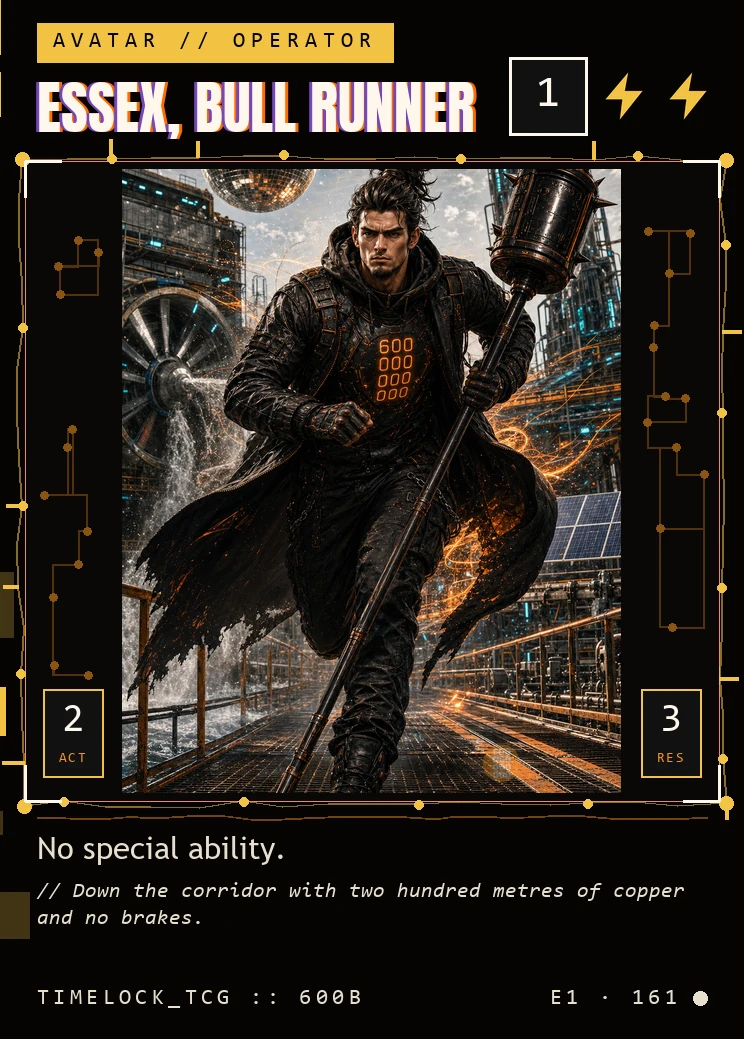
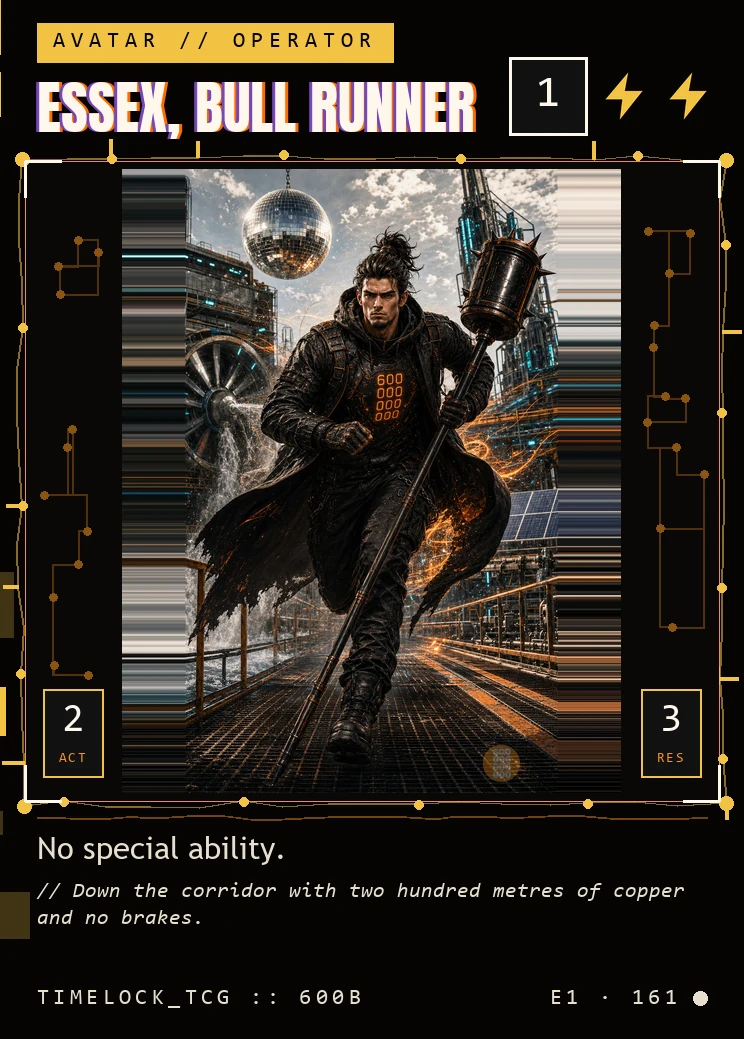
fix: stop cutting the heads off sixteen cards
normalize_generated_art centre-cropped every source to 4:5. For the 279 whose
source was already 1122x1402 that took 0-1px of background, which is why nobody
noticed. Sixteen sources are taller -- 0.60 to 0.64 -- and on those the centre
crop took 20-25% of the frame in equal bites off the top and the bottom. The top
of a standing full-body character is their head, so NC lost his cap, Essex lost
his skull and the sky behind it, FLX lost the tricorn.

Cropping from the bottom instead would only move the amputation to the boots, so
nothing is cut now: a tall source is PADDED to 4:5 by extending its own edge
columns sideways. The card letterboxes the result exactly as it already
letterboxes every other 4:5 portrait in its wider art window, so the pad is
invisible and the whole illustration survives.

Two things surfaced while proving it, both worse than the crop itself:

The pipeline had lost a stage. Three scripts write into prompts-v2-final, and
that directory is gitignored, so running only the first silently reverted the
other two for all 295 -- the 600B watermark, and the 35 reviewed QA re-shoots
that are the released artwork for those cards. Nothing warns; it shows up as a
changed hash. find_raw now resolves the QA edit itself, so normalize + watermark
reproduces the released set from the two source directories that survive on
disk. Verified: 281 of 297 faces re-render byte-identical, and every one of the
16 that moved is flagged frame:pad in the manifest.
[…]

Changed region(s): [[0.1546, 0.154, 0.8347, 0.77]]

diff --git a/site/blob-map.js b/site/blob-map.js
@@ -62,20 +62,20 @@ globalThis.E1_BLOBS = {
[25 lines of base64/hex data omitted]
@@ -93,7 +93,7 @@ globalThis.E1_BLOBS = {
[8 lines of base64/hex data omitted]
@@ -105,7 +105,7 @@ globalThis.E1_BLOBS = {
[8 lines of base64/hex data omitted]
@@ -118,7 +118,7 @@ globalThis.E1_BLOBS = {
[8 lines of base64/hex data omitted]
@@ -137,7 +137,7 @@ globalThis.E1_BLOBS = {
[8 lines of base64/hex data omitted]
@@ -154,7 +154,7 @@ globalThis.E1_BLOBS = {
[8 lines of base64/hex data omitted]
@@ -164,10 +164,10 @@ globalThis.E1_BLOBS = {
[13 lines of base64/hex data omitted]
@@ -179,7 +179,7 @@ globalThis.E1_BLOBS = {
[8 lines of base64/hex data omitted]
@@ -251,7 +251,7 @@ globalThis.E1_BLOBS = {
[8 lines of base64/hex data omitted]
@@ -278,7 +278,7 @@ globalThis.E1_BLOBS = {
[8 lines of base64/hex data omitted]

diff --git a/scripts/normalize_generated_art.py b/scripts/normalize_generated_art.py
@@ -36,26 +36,76 @@ def file_sha256(path: Path) -> str:
     return digest.hexdigest()
 
 
-def find_raw(raw_dir: Path, card_id: str) -> Path | None:
-    """Find one generated source without assuming its codec."""
-    for extension in SUPPORTED_EXTENSIONS:
-        candidate = raw_dir / f"{card_id}{extension}"
-        if candidate.exists():
-            return candidate
+def find_raw(raw_dir: Path, card_id: str, qa_dir: Path | None = None) -> Path | None:
+    """Find one generated source, preferring a reviewed QA edit over the raw take.
+
+    Thirty-five cards were re-shot during art QA and the edit, not the original
+    take, is the released artwork. That preference used to live in a separate
+    staging directory that no longer exists, so normalizing from the raw folder
+    alone silently reverted all thirty-five to their pre-QA takes -- the kind of
+    regression that only shows up as a changed hash, long after the fact.
+    Resolving the preference here keeps the whole chain reproducible from the
+    two source directories that actually survive on disk.
+    """
+    for directory in (qa_dir, raw_dir):
+        if directory is None:
+            continue
+        for extension in SUPPORTED_EXTENSIONS:
+            candidate = directory / f"{card_id}{extension}"
+            if candidate.exists():
+                return candidate
     return None
 
 
 def center_crop_box(width: int, height: int) -> tuple[int, int, int, int]:
-    """Return the largest centered 4:5 portrait crop."""
+    """Return the largest centered 4:5 portrait crop, for sources WIDER than 4:5."""
     target_ratio = ART_WIDTH / ART_HEIGHT
-    current_ratio = width / height
-    if current_ratio > target_ratio:
-        crop_width = round(height * target_ratio)
-        left = (width - crop_width) // 2
-        return left, 0, left + crop_width, height
-    crop_height = round(width / target_ratio)
-    top = (height - crop_height) // 2
-    return 0, top, width, top + crop_height
+    crop_width = round(height * target_ratio)
+    left = (width - crop_width) // 2
+    return left, 0, left + crop_width, height
+
+
+def fit_to_frame(image: Image.Image) -> Image.Image:
+    """Return the image as a 4:5 portrait without ever cutting a subject off.
+
+    A source WIDER than 4:5 is centre-cropped: the lost pixels are at the left
+    and right edges, which in this set is background.
+
+    A source TALLER than 4:5 is PADDED, not cropped. Centre-cropping one takes
+    equal bites out of the top and the bottom -- and on a standing full-body
+    character the top is the head. Sixteen cards were decapitated that way, up
+    to 12.5% of the frame, and the loss was invisible afterwards because the
+    only surviving copy was the cropped one. Cropping from the bottom instead
+    would just move the amputation to the boots, so nothing is cut at all: the
+    frame grows sideways into a field sampled from the image's own edges, which
+    the card then letterboxes exactly as it already letterboxes every 4:5
+    portrait inside its wider art window.
+    """
+    width, height = image.size
+    target_ratio = ART_WIDTH / ART_HEIGHT
+    if width / height >= target_ratio:
+        box = center_crop_box(width, height)
+        return image.crop(box), {"frame": "crop", "kept_box": list(box)}
+
+    padded_width = round(height * target_ratio)
+    pad = padded_width - width
+    left = pad // 2
+    # A flat black field would read as a printing error; the edge columns keep
+    # the illustration's own light and colour running to the frame.
+    canvas = Image.new("RGB", (padded_width, height))
+    if left:
+        canvas.paste(image.crop((0, 0, 1, height)).resize((left, height)), (0, 0))
+    right = pad - left
+    if right:
+        edge = image.crop((width - 1, 0, width, height)).resize((right, height))
+        canvas.paste(edge, (left + width, 0))
+    canvas.paste(image, (left, 0))
+    return canvas, {
+        "frame": "pad",
+        "kept_box": [0, 0, width, height],
+        "pad_box": [left, 0, left + width, height],
+        "padded_size": [padded_width, height],
+    }
 
 
 def record_decisions(
@@ -115,12 +165,11 @@ def normalize_one(
     *,
     watermark_logo: Image.Image | None = None,
 ) -> dict[str, Any]:
-    """Crop and resize one generated image, optionally adding the official watermark."""
+    """Fit and resize one generated image, optionally adding the official watermark."""
     with Image.open(source) as image:
         image = ImageOps.exif_transpose(image).convert("RGB")
         original_size = list(image.size)
-        crop_box = center_crop_box(*image.size)
-        image = image.crop(crop_box)
+        image, framing = fit_to_frame(image)
         image = image.resize((ART_WIDTH, ART_HEIGHT), Image.Resampling.LANCZOS)
         watermark_box = None
         if watermark_logo is not None:
@@ -131,12 +180,13 @@ def normalize_one(
         "source_file": source.as_posix(),
         "source_size": original_size,
         "source_sha256": file_sha256(source),
-        "crop_box": list(crop_box),
+        "crop_box": framing["kept_box"],
         "file": output.name,
         "size": [ART_WIDTH, ART_HEIGHT],
         "sha256": file_sha256(output),
         "status": "art-locked",
     }
+    result.update({k: v for k, v in framing.items() if k != "kept_box"})
     if watermark_box is not None:
         result["watermark"] = {
             "asset": "art/brand/600B-logo-primary.png",
@@ -167,6 +217,12 @@ def main() -> None:
         default=repo_root / "art" / "generated" / "prompts-v2",
     )
     parser.add_argument(
+        "--qa-edits",
+        type=Path,
+        default=repo_root / "art" / "generated" / "prompts-v2-qa-edits",
+        help="reviewed re-shoots that supersede the raw take for those cards",
+    )
+    parser.add_argument(
         "--out",
         type=Path,
         default=repo_root / "art" / "generated" / "prompts-v2-final-1920x2400",
@@ -190,7 +246,7 @@ def main() -> None:
     files = []
     missing = []
     for card in prompt_cards:
-        source = find_raw(args.raw, card["id"])
+        source = find_raw(args.raw, card["id"], args.qa_edits)
         if source is None:
             missing.append(card["id"])
             continue
